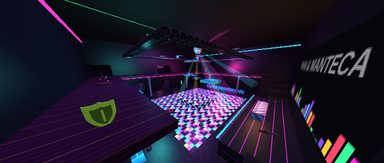
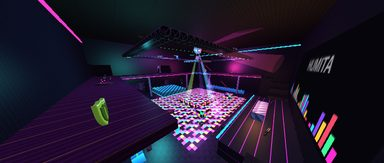
La Cuenca: escalera de emergencia este y azoteas con saltadores; Pan & Manteca pasa a llamarse Humita, con tarimas LED móviles y terraza nueva
Claude-Session: https://claude.ai/code/session_01L2yBUVtQ1bkEAosX8GYgaG

diff --git a/public/game.js b/public/game.js
@@ -407,7 +407,7 @@ function buildRepresa() {
     theme: { sky: 'dusk', fog: 0x1c1310, fogD: .0105, amb: 0x55453a, ambI: .85, hemi: [0x5a4a6a, 0x1a100a, .55], sun: true } });
 }
 
-/* ---------- dm2 · Pan & Manteca — un boliche (homenaje a la noche de Posadas) ---------- */
+/* ---------- dm2 · Humita — un boliche (homenaje a la noche de Posadas; el id interno sigue siendo 'panymanteca') ---------- */
 function buildPanYManteca() {
   const { pads, spawns, lights, add, wall, stairs, D, face, I, mover, finish } = mapKit();
   /* ---- cáscara: salón principal x[-20,20] z[-18,18], techo a 16 ---- */
@@ -448,6 +448,9 @@ function buildPanYManteca() {
   mover(-14.5, 6.6, 4.5, -11.5, 7, 7.5, 'lift', 0, 26, 10, Math.PI);
   mover(-14, -.1, 10, -11, .3, 13, 'lift', 1, 6.7, 8, 0);                    // ascensores al VIP sur
   mover(11, -.1, 10, 14, .3, 13, 'lift', 1, 6.7, 8, Math.PI);
+  // tarimas LED que suben y bajan en la pista por turnos: cobertura que cambia al ritmo de la música
+  [[-6, -6.5, 0], [6, -6.5, 1], [6, 6.5, 2], [-6, 6.5, 3]].forEach(([x, z, k]) =>
+    mover(x - 1, -1.6, z - 1, x + 1, -.5, z + 1, 'led', 1, 2.6, 6.4, k * Math.PI / 2));
   /* ---- subwoofers (plataformas de salto) ---- */
   pads.push({ x: 9, y: 0, z: 0, r: 1, t: [1, 11, 0], apex: 1.5 });
   pads.push({ x: -9, y: 0, z: 0, r: 1, t: [-1, 11, 0], apex: 1.5 });
@@ -465,6 +468,22 @@ function buildPanYManteca() {
   [-8, 8].forEach(x => add(x - .5, 0, 24, x + .5, 4.5, 25, 'chrome'));
   add(-1, 0, 28.5, 1, .4, 30.5, 'chrome');
   add(-14, 0, 30.5, -8, .6, 32, 'velvet'); add(8, 0, 30.5, 14, .6, 32, 'velvet');
+  /* ---- TERRAZA (techo del lobby, a 5 m) — antes estaba vacía ---- */
+  stairs(-3, 19, 3, 22, 5, .5, 4, 'z', -1, 'stage');                             // escalera a la puerta del VIP
+  add(-15, 5, 26, -13.5, 6.3, 31, 'glass'); add(-15.2, 6.3, 25.8, -13.3, 6.45, 31.2, 'chrome');   // barra
+  add(-15.9, 5, 25.5, -15.6, 9, 31.5, 'mirror');
+  add(10, 5, 30.6, 15, 5.6, 31.8, 'velvet'); add(10, 5.6, 31.4, 15, 6.4, 31.8, 'velvet');          // sillones
+  add(-9.5, 5, 22.5, -7, 6.3, 25, 'black'); add(7, 5, 22.5, 9.5, 6.3, 25, 'black');                // macetones / cobertura
+  add(-9.5, 6.3, 22.5, -7, 6.4, 25, 'neonP', { nc: 1 }); add(7, 6.3, 22.5, 9.5, 6.4, 25, 'neonC', { nc: 1 });
+  add(-6, 5, 28, -4, 6.6, 30, 'speaker'); add(4, 5, 28, 6, 6.6, 30, 'speaker');
+  // torre del DJ de la terraza: ascensor hasta un mirador a 10 m con el rifle de caza
+  add(-2.5, 9.6, 27, 2.5, 10, 31, 'truss');
+  [[-2.5, 27], [2, 27], [-2.5, 30.5], [2, 30.5]].forEach(([x, z]) => add(x, 5, z, x + .5, 9.6, z + .5, 'chrome'));
+  mover(-1.25, 4.9, 24.6, 1.25, 5.3, 27, 'lift', 1, 4.7, 7, 0);
+  add(-2.5, 10, 30.9, 2.5, 11, 31, 'rail', { nc: 1 });
+  add(-2.6, 10, 27, -2.5, 11, 31, 'neonP', { nc: 1 }); add(2.5, 10, 27, 2.6, 11, 31, 'neonC', { nc: 1 });
+  // arco de neón sobre la terraza
+  add(-16, 13.8, 21.5, 16, 14, 21.7, 'neonP', { nc: 1 }); add(-16, 13.8, 29.5, 16, 14, 29.7, 'neonC', { nc: 1 });
   /* ---- neón ---- */
   add(-15.1, 6.3, -12, -14.9, 6.5, 13, 'neonP', { nc: 1 }); add(14.9, 6.3, -12, 15.1, 6.5, 13, 'neonC', { nc: 1 });
   add(-15, 6.3, 12.9, 15, 6.5, 13.1, 'neonP', { nc: 1 });
@@ -475,7 +494,7 @@ function buildPanYManteca() {
   I('quad', 0, 11, 0); I('mega', 0, 12, 8.75); I('w6', 0, 12, -8.75); I('w8', 13.25, 12, -4); I('grenades', -13.25, 12, 4);
   I('w5', 0, .4, 29.5); I('rockets', -11, 0, 28.5); I('rockets', 11, 5, 28); I('w2', 6, 2, -15.5); I('w3', -17.5, 7, -7); I('w4', 17.5, 7, 7);
   I('shells', -8, 0, -8); I('shells', 8, 0, 8); I('bullets', 8, 0, -8); I('bullets', -17.5, 7, 15); I('armor', 17.5, 7, -10); I('armor', -17.5, 7, 10);
-  I('armorH', 0, 5, 22); I('health', -18.5, 0, 0); I('health', 18.5, 0, 0); I('health', -12, 0, 22); I('health', 12, 0, 22); I('w1', -6, 2, -15.5);
+  I('armorH', -4.5, 5, 24); I('w9', 0, 10, 29.5); I('health', 12.5, 5, 26); I('health', -12, 5, 28.5); I('shells', 0, 0, -6.5); I('health', -18.5, 0, 0); I('health', 18.5, 0, 0); I('health', -12, 0, 22); I('health', 12, 0, 22); I('w1', -6, 2, -15.5);
   /* ---- apariciones ---- */
   [[-14, 0, -6], [14, 0, 6], [-8, 0, 15], [8, 0, 15.5], [4, 2, -16.5], [-17.5, 7, 1], [17.5, 7, -2], [-5, 7, 15.5], [5, 7, 15.5],
    [-10, 0, 21], [10, 0, 21], [-6, 0, 30], [6, 0, 30], [-12, 5, 24], [12, 5, 24], [0, 1, 0]]
@@ -489,7 +508,7 @@ function buildPanYManteca() {
     { x: 0, y: 3.5, z: 25, c: 0xff3050, i: 1.3, d: 22 },
     { x: 0, y: 10, z: 26, c: 0x6a7bff, i: 1.1, d: 26 }
   );
-  return finish({ id: 'panymanteca', name: 'dm2 · Pan & Manteca', bounds: { x0: -22, x1: 22, z0: -20, z1: 34 },
+  return finish({ id: 'panymanteca', name: 'dm2 · Humita', bounds: { x0: -22, x1: 22, z0: -20, z1: 34 },
     theme: { sky: 'night', fog: 0x0d0716, fogD: .013, amb: 0x3a2a55, ambI: .9, hemi: [0x6040a0, 0x10081a, .55], sun: false, club: true } });
 }
 /* ---------- ctf1 · El Puente ----------
@@ -633,6 +652,20 @@ function buildLaCuenca() {
   add(10.5, 1.5, 2, 12.5, 3.9, 4, 'booth');
   deco.push({ t: 'roof', x: 11.5, y: 3.9, z: 3, w: 2.8, h: 1 });
   deco.push({ t: 'pole', x: 14, y: 1.5, z: 6, h: 8, flag: 'ar' }, { t: 'pole', x: 14, y: 1.5, z: 8, h: 8, flag: 'mis' }, { t: 'pole', x: 14, y: 1.5, z: 10, h: 8, flag: 'ucp' });
+  /* ---- azoteas de los vecinos: se sube con saltadores desde la calle ---- */
+  // derecha (7 m): tanque de agua, equipos de aire, parapeto y un saltador al techo del edificio
+  pads.push({ x: 27, y: 0, z: 13, r: 1, t: [27, 7, 5], apex: 1.6 });
+  add(25, 7, -25, 29, 10, -20, 'metal'); add(24.8, 10, -25.2, 29.2, 10.4, -19.8, 'trim');
+  add(24.6, 7, -8, 26.6, 8.3, -6, 'metal'); add(27.6, 7, -2, 29.6, 8.3, 0, 'metal');
+  add(24, 7, -12, 24.4, 7.8, 8, 'whitewall');
+  add(26, 7, -15, 28.5, 8.2, -13.5, 'crate');
+  pads.push({ x: 27, y: 7, z: -17, r: 1, t: [12, 15, -13], apex: 4.5 });
+  // izquierda (5 m): chimeneas de ladrillo, antena y cajas
+  pads.push({ x: -27, y: 0, z: 13, r: 1, t: [-27, 5, 5], apex: 1.6 });
+  add(-28.5, 5, -6, -26.5, 7.5, -4, 'brick'); add(-26, 5, -20, -24.5, 6.8, -18.5, 'brick');
+  add(-29, 5, -14, -27, 6.2, -11.5, 'crate'); add(-27, 5, -13.6, -25.6, 5.8, -12, 'crate');
+  add(-24.4, 5, -30, -24, 5.8, 10, 'whitewall');
+  add(-27.6, 5, 2, -27.3, 9, 2.3, 'metal'); add(-28.5, 8.6, 2, -26.4, 8.8, 2.3, 'metal', { nc: 1 });
   /* ---- calle ---- */
   add(-10, 0, 20, -7, 1, 22, 'smooth'); add(6, 0, 22, 9, 1, 24, 'smooth');
   deco.push({ t: 'bush', x: -8.5, y: 1, z: 21, r: .8 }, { t: 'bush', x: 7.5, y: 1, z: 23, r: .8 });
@@ -649,6 +682,9 @@ function buildLaCuenca() {
   stairs(-20, -30, 2, -28, 0, .25, 44, 'x', 1, 'step');
   add(2, 0, -30, 6, 11, -28, 'metal');
   add(-20, 0, -30.05, 6, 1, -30, 'rail');
+  // segunda escalera de emergencia, del lado este: el que viene por el pasillo derecho ya no choca con la pared, sube hasta la biblioteca
+  stairs(6, -30, 22, -28, 0, .25, 44, 'x', -1, 'step');
+  add(6, 0, -30.05, 22, 1, -30, 'rail');
   wall(-16, -27.6, -15.6, -6.4, 3, 15, [D(-12, -9, 3, 5.6), D(-22, -18, 7.8, 9.4), D(-12, -9, 7.8, 9.4), D(-22, -18, 11.8, 13.4)], 'whitewall');
   add(21.6, 3, -27.6, 22, 15, -6.4, 'whitewall');
   // escalera: tres tramos en el lado este (planta baja → 1º → 2º → techo)
@@ -698,10 +734,12 @@ function buildLaCuenca() {
   I('w2', 3, 1.5, 1); I('w3', 0, 0, 24); I('w4', 13, 3, -3.5); I('w9', -12.5, 11, -4.8); I('w8', 14, 15, -26); I('w5', 0, 15, -12);
   I('w6', -10, 7, -20); I('w1', -19, 3, -12); I('quad', 2, 11, -19); I('mega', -3, 3.05, -14.5); I('armorH', -12, 11, -26); I('armor', 19, 0, 8);
   I('health', -6, 1.5, 10); I('health', 15, 0, 20); I('health', 12, 3.05, -25); I('health', 12, 7, -9); I('health', -18, 3, -20);
+  I('armor', 27, 7, -4); I('health', 25.5, 7, 6); I('bullets', 28, 7, -10.5); I('grenades', 27, 10.4, -22.5);
+  I('armor', -27, 5, -9); I('health', -25.5, 5, 6); I('shells', -28, 5, -16); I('health', 14, 0, -29);
   I('shells', -14, 3.05, -14); I('bullets', 6, 3, -4); I('rockets', 10, 15, -10); I('grenades', -10, 7, -9); I('slugs', 0, 7, -26); I('caza', -20, 0, 20);
   /* ---- apariciones ---- */
   [[-8, 1.5, 8], [6, 1.5, 6], [0, 1.5, 11], [13, 1.5, 11.5], [-20, 0, 22], [0, 0, 21], [18, 0, 24], [10, 3, -3.5], [-19, 3, -10],
-   [-10, 3.05, -14], [8, 3.05, -14], [-10, 7, -9], [8, 7, -9], [1, 7, -13.2], [-8, 11, -12], [10, 11, -12]]
+   [-10, 3.05, -14], [8, 3.05, -14], [27, 7, -9], [-27, 5, -2], [-10, 7, -9], [8, 7, -9], [1, 7, -13.2], [-8, 11, -12], [10, 11, -12]]
     .forEach(([x, y, z]) => spawns.push({ x, y, z, yaw: face(x, z, 0, 0) }));
   /* ---- luces ---- */
   lights.push({ x: -2, y: 5.8, z: -13, c: 0xfff2dc, i: .55, d: 18 }, { x: 6, y: 9.8, z: -9, c: 0xfff2dc, i: .5, d: 20 },

diff --git a/public/index.html b/public/index.html
@@ -441,7 +441,7 @@ button:focus-visible,input:focus-visible{outline:2px solid var(--amber);outline-
   <div class="mbox">
     <div class="kicker" id="mKick">Arena · Gungame · Team Deathmatch · Captura la bandera</div>
     <h1 id="mTitle">CUENK<span>ARENA</span><small>SNIPER UPDATE</small></h1>
-    <p id="mSub">Cuatro modos y cuatro mapas: La Cuenca (la universidad, con la plaza y el edificio para recorrer por dentro), la represa industrial, Pan &amp; Manteca (un boliche con pista LED y subwoofers que te tiran por el aire) y El Puente, donde Posadas y Encarnación se disputan la bandera de un lado al otro del río.</p>
+    <p id="mSub">Cuatro modos y cuatro mapas: La Cuenca (la universidad, con la plaza y el edificio para recorrer por dentro), la represa industrial, Humita (un boliche con pista LED y subwoofers que te tiran por el aire) y El Puente, donde Posadas y Encarnación se disputan la bandera de un lado al otro del río.</p>
     <div id="acctBox" hidden></div>
     <div class="idrow"><label for="pName">Tu nombre</label><input id="pName" maxlength="16" autocomplete="off" spellcheck="false"></div>
     <div class="mrow">
@@ -510,7 +510,7 @@ button:focus-visible,input:focus-visible{outline:2px solid var(--amber);outline-
       <div class="srow"><span>Calidad gráfica</span><div class="seg" id="sQ" role="group" aria-label="Calidad"><button type="button" data-v="1">Alta</button><button type="button" data-v="0">Liviana</button></div></div>
       <div class="sep"></div>
       <div class="ptitle">Práctica con bots</div>
-      <div class="srow"><span>Mapa</span><div class="seg" id="sMap" role="group" aria-label="Mapa"><button type="button" data-v="represa">La Represa</button><button type="button" data-v="panymanteca">Pan &amp; Manteca</button><button type="button" data-v="lacuenca">La Cuenca</button></div></div>
+      <div class="srow"><span>Mapa</span><div class="seg" id="sMap" role="group" aria-label="Mapa"><button type="button" data-v="represa">La Represa</button><button type="button" data-v="panymanteca">Humita</button><button type="button" data-v="lacuenca">La Cuenca</button></div></div>
       <div class="srow"><span>Bots en la arena</span><div class="stepper"><button type="button" id="bMinus" aria-label="Sacar un bot">−</button><output id="oBots"></output><button type="button" id="bPlus" aria-label="Agregar un bot">+</button></div></div>
       <div class="srow"><span>Dificultad</span><div class="seg" id="sSkill" role="group" aria-label="Dificultad"><button type="button" data-v="0">Fácil</button><button type="button" data-v="1">Normal</button><button type="button" data-v="2">Difícil</button><button type="button" data-v="3">Pesadilla</button></div></div>
       <div class="srow"><span>Límite de frags</span><div class="seg" id="sFl" role="group" aria-label="Límite de frags"><button type="button" data-v="10">10</button><button type="button" data-v="20">20</button><button type="button" data-v="30">30</button><button type="button" data-v="50">50</button></div></div>
@@ -902,7 +902,7 @@ function buildClub(group){
   }
   const sc=document.createElement('canvas');sc.width=256;sc.height=96;club.screen=sc;club.screenTex=new THREE.CanvasTexture(sc);club.screenTex.magFilter=THREE.NearestFilter;
   const scr=new THREE.Mesh(new THREE.PlaneGeometry(22,8),new THREE.MeshBasicMaterial({map:club.screenTex}));scr.position.set(0,8,-17.97);group.add(scr);
-  const sign=cv(512,128,(g)=>{g.font='bold 92px "Black Ops One", Impact, sans-serif';const fw=g.measureText('PAN & MANTECA').width;if(fw>480)g.font='bold '+Math.floor(92*480/fw)+'px "Black Ops One", Impact, sans-serif';g.textAlign='center';g.textBaseline='middle';g.shadowColor='#ff3fd2';g.shadowBlur=24;g.fillStyle='#ff9be9';g.fillText('PAN & MANTECA',256,68);});
+  const sign=cv(512,128,(g)=>{g.font='bold 92px "Black Ops One", Impact, sans-serif';const fw=g.measureText('HUMITA').width;if(fw>480)g.font='bold '+Math.floor(92*480/fw)+'px "Black Ops One", Impact, sans-serif';g.textAlign='center';g.textBaseline='middle';g.shadowColor='#ff3fd2';g.shadowBlur=24;g.fillStyle='#ff9be9';g.fillText('HUMITA',256,68);});
   const sm=new THREE.Mesh(new THREE.PlaneGeometry(14,3.5),new THREE.MeshBasicMaterial({map:new THREE.CanvasTexture(sign),transparent:true,blending:THREE.AdditiveBlending,depthWrite:false}));sm.position.set(0,9.5,31.9);sm.rotation.y=Math.PI;group.add(sm);
   const bottleCols=[0x3aff9c,0xffcf3a,0x2be6ff,0xff4a6a,0xb46cff];
   for(const sx of [-1,1])for(let z=-7;z<=7;z+=1.4){const m=new THREE.Mesh(new THREE.CylinderGeometry(.07,.09,.42,6),new THREE.MeshBasicMaterial({color:bottleCols[(Math.abs(z*5)|0)%5],transparent:true,opacity:.8}));m.position.set(sx*16.5,1.32,z);group.add(m);}
@@ -920,7 +920,7 @@ function updClub(dt,beatF){
   c.scrT=(c.scrT||0)-dt;
   if(c.scrT<=0){c.scrT=1/15;const g=c.screen.getContext('2d');g.fillStyle='#07050c';g.fillRect(0,0,256,96);
     for(let i=0;i<32;i++){const h=(Math.sin(G.time*3+i*.7)*.5+.5)*(.35+pulse*.65)*70*(.5+.5*Math.abs(Math.sin(i*1.7)));g.fillStyle=LEDC[(i+beat)%LEDC.length];g.fillRect(i*8+1,92-h,6,h);}
-    g.font='bold 24px "Black Ops One", Impact, sans-serif';g.textAlign='center';g.fillStyle='rgba(255,255,255,'+(.55+pulse*.45)+')';g.fillText('PAN & MANTECA',128+Math.sin(G.time)*12,36);
+    g.font='bold 24px "Black Ops One", Impact, sans-serif';g.textAlign='center';g.fillStyle='rgba(255,255,255,'+(.55+pulse*.45)+')';g.fillText('HUMITA',128+Math.sin(G.time)*12,36);
     c.screenTex.needsUpdate=true;}
   for(const ml of level.maplights)ml.l.intensity=ml.base*(.75+pulse*.5);
 }

diff --git a/README.md b/README.md
@@ -1,12 +1,12 @@
 # CuenkArena
 
-Deathmatch online estilo Quake que corre en el navegador. Al terminar cada partida los jugadores votan el próximo mapa, entre ellos **dm3 · La Cuenca** (la Universidad de la Cuenca del Plata de Posadas, con la plaza y el edificio para recorrer por dentro), **dm1 · La Represa** (industrial, con lava) y **dm2 · Pan & Manteca** (un boliche con pista LED, plataformas móviles, ascensores y subwoofers que te lanzan). Siete armas, tienda con créditos, taquilla para personalizar tu personaje, bots y movimiento con *strafe jump* y *bunny hop*.
+Deathmatch online estilo Quake que corre en el navegador. Al terminar cada partida los jugadores votan el próximo mapa, entre ellos **dm3 · La Cuenca** (la Universidad de la Cuenca del Plata de Posadas, con la plaza y el edificio para recorrer por dentro), **dm1 · La Represa** (industrial, con lava) y **dm2 · Humita** (un boliche con pista LED, plataformas móviles, ascensores y subwoofers que te lanzan). Siete armas, tienda con créditos, taquilla para personalizar tu personaje, bots y movimiento con *strafe jump* y *bunny hop*.
 
 ## Modos de juego
 
 Al tocar **Jugar online** (o **Práctica con bots**) elegís el modo. Cada modo es una sala aparte del servidor.
 
-- **Arena**: todos contra todos en La Represa, Pan & Manteca y La Cuenca, con créditos y tienda. Cada partida dura **6 minutos** (online y en práctica).
+- **Arena**: todos contra todos en La Represa, Humita y La Cuenca, con créditos y tienda. Cada partida dura **6 minutos** (online y en práctica).
 - **Gungame**: todos arrancan con la ametralladora y cada baja te da la siguiente arma de una lista de 20 niveles (armas fuertes primero, pistola, riel y francotirador al final, cuchillo en el último). Munición infinita, sin tienda y sin nada tirado en el mapa (ni armas, ni vida, ni blindaje). Además de la del nivel tenés siempre el cuchillo: si te matás solo, o te matan con cuchillo, bajás un nivel. Gana el primero en hacer la baja número 20.
 - **Team Deathmatch**: rojo contra azul, cada baja suma para el equipo hasta llegar al límite. Online la sala espera a tener **4 jugadores** (mientras tanto hay calentamiento y las bajas no cuentan) y arranca con una cuenta regresiva. El límite de bajas lo elige el primero en entrar desde la pantalla de modos, y se puede cambiar desde el menú (Esc) mientras esperan.
 - **Captura la bandera**: rojo (Posadas) contra azul (Encarnación) en **ctf1 · El Puente**. Robá la bandera rival del fortín enemigo y llevala hasta el pedestal de tu base (cuenta aunque tu bandera esté robada). Si matan al que la lleva, la bandera queda tirada 20 segundos: si la toca su equipo vuelve a la base. Gana el primer equipo en capturarla 3 veces (se cambia con `/caplimit N`). No hay fuego amigo y los equipos se equilibran solos con los bots.
@@ -253,3 +253,8 @@ Los ítems de ayuda tienen forma propia: el **blindaje** es un escudo verde, el 
 ## Votación del próximo mapa
 
 En la pantalla final hay una tarjeta por cada mapa del modo, con su nombre y una foto chiquita del mapa (sacadas con el mismo motor del juego, en `public/maps/`). Se vota con un click o con 1, 2, 3; cada tarjeta muestra los votos y una estrella en el que va ganando, y se puede cambiar el voto. Gana el más votado; si hay empate entre los más votados, o si nadie vota, el mapa sale **al azar**.
+
+## Novedades de La Cuenca y Humita
+
+- **La Cuenca:** segunda escalera de emergencia en el fondo, del lado este: el que viene por el pasillo derecho ya no termina en un callejón, sube hasta la puerta de la biblioteca. Las **azoteas de los vecinos** ahora se usan: se sube con saltadores desde la calle. La de la derecha (7 m) tiene tanque de agua, equipos de aire, blindaje, botiquín y otro saltador que te lleva al techo del edificio; la de la izquierda (5 m) tiene chimeneas, cajas, antena, blindaje y botiquín.
+- **Humita** (antes Pan & Manteca, el mismo boliche y del mismo tamaño): cuatro **tarimas LED** que suben y bajan por turnos en la pista, y la **terraza** del techo del lobby, que antes estaba vacía: barra, sillones, macetones con neón, parlantes, una escalera a la puerta del VIP y la **torre del DJ** con ascensor hasta un mirador a 10 m con el rifle de caza.
